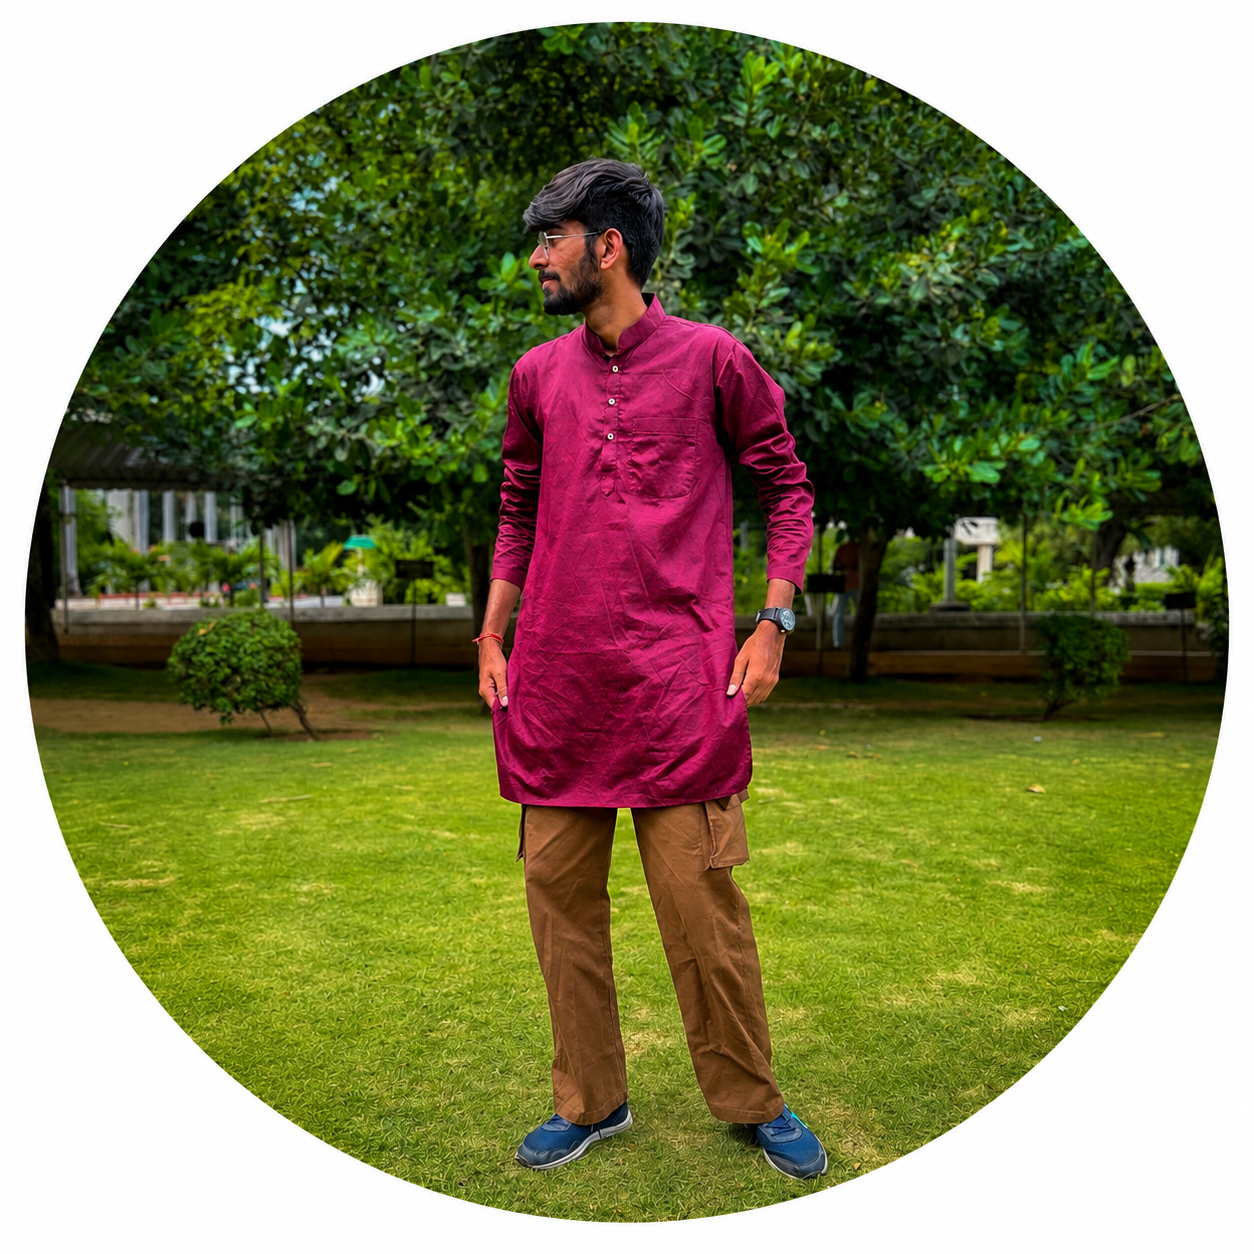
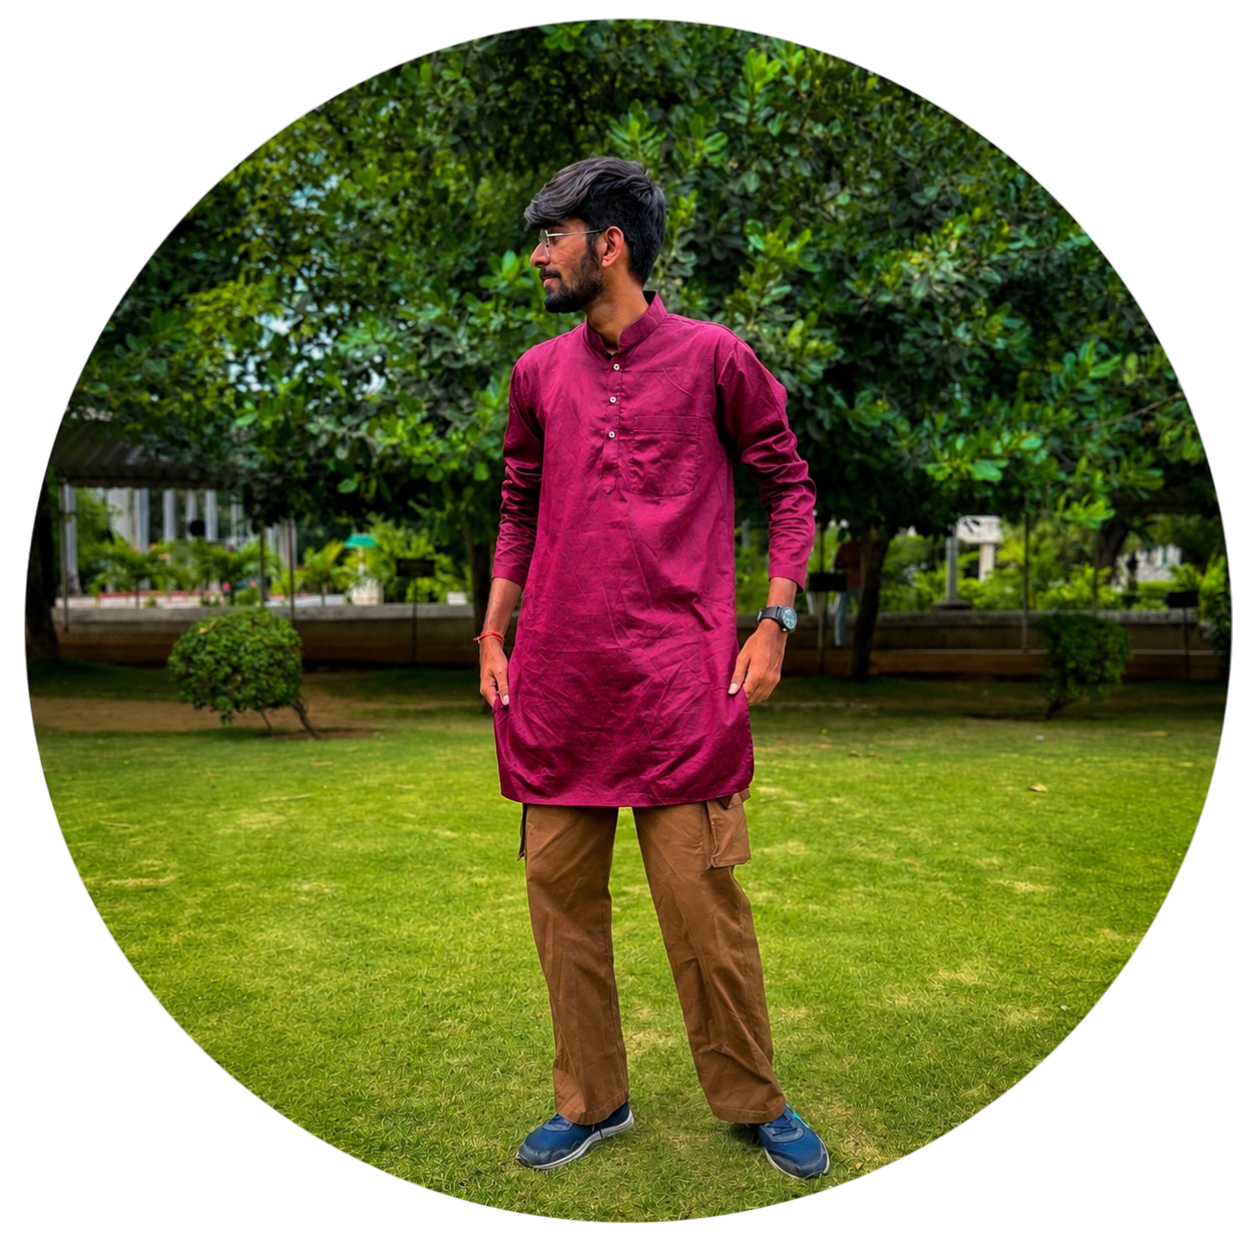
Added BlurBlob effect

diff --git a/myportfolio/src/components/BlurBlob.jsx b/myportfolio/src/components/BlurBlob.jsx
@@ -1,0 +1,36 @@
+import React from 'react'
+import PropTypes from 'prop-types'
+
+const BlurBlob = ({position,size}) => {
+    // Destructuring pos and size
+    const { top, left } = position
+    const { width, height} = size
+
+  return (
+    <div className='absolute'
+    style={{
+        top: top,
+        left: left,
+        width: width,
+        height: height,
+        transform: 'tranlate(-50%,-50%)',
+    }}
+    >
+      <div className='w-full h-full bg-teal-500 rounded-full opacity-20 blur-3xl animate-blob'>
+
+      </div>
+    </div>
+  )
+}
+// Defining Prop Types
+BlurBlob.propTypes = {
+  position: PropTypes.shape({
+    top: PropTypes.string,
+    left: PropTypes.string,
+  }),
+  size: PropTypes.shape({
+    width: PropTypes.string,
+    height: PropTypes.string,
+  }),
+};
+export default BlurBlob

diff --git a/myportfolio/src/index.css b/myportfolio/src/index.css
@@ -1,1 +1,13 @@
 @import "tailwindcss";
+
+
+@theme {
+  --animate-blob: blob 10s infinite;
+
+  @keyframes blob {
+    0%   { transform: scale(1); }
+    33%  { transform: scale(1.2); }
+    66%  { transform: scale(0.8); }
+    100% { transform: scale(1); }
+  }
+}

diff --git a/myportfolio/src/App.jsx b/myportfolio/src/App.jsx
@@ -8,12 +8,16 @@ import Education from './components/Education/Education'
 import Contact from './components/Contact/Contact'
 import Footer from './components/Footer/Footer'
 import './App.css'
+import BlurBlob from './components/BlurBlob'
 
 function App() {
 
 
   return (
     <div className='bg-[#050414]'>
+
+      <BlurBlob position={{top: '35%', left: '20%'}} size={{width: '30%', height: '40%'}}></BlurBlob>
+
       <div className='absolute inset-0 bg-[linear-gradient(to_right,#4f4f4f2e_1px,transparent_1px),linear-gradient(to_bottom,#4f4f4f2e_1px,transparent_1px)] bg-size-[14px_24px] [mask-[radial-gradient(ellipse_60%_50%_at_50%_0%,#000_70%,transparent_100%)]'>
         {/* this className makes the grid like structure in the background of the site. */}
       </div>